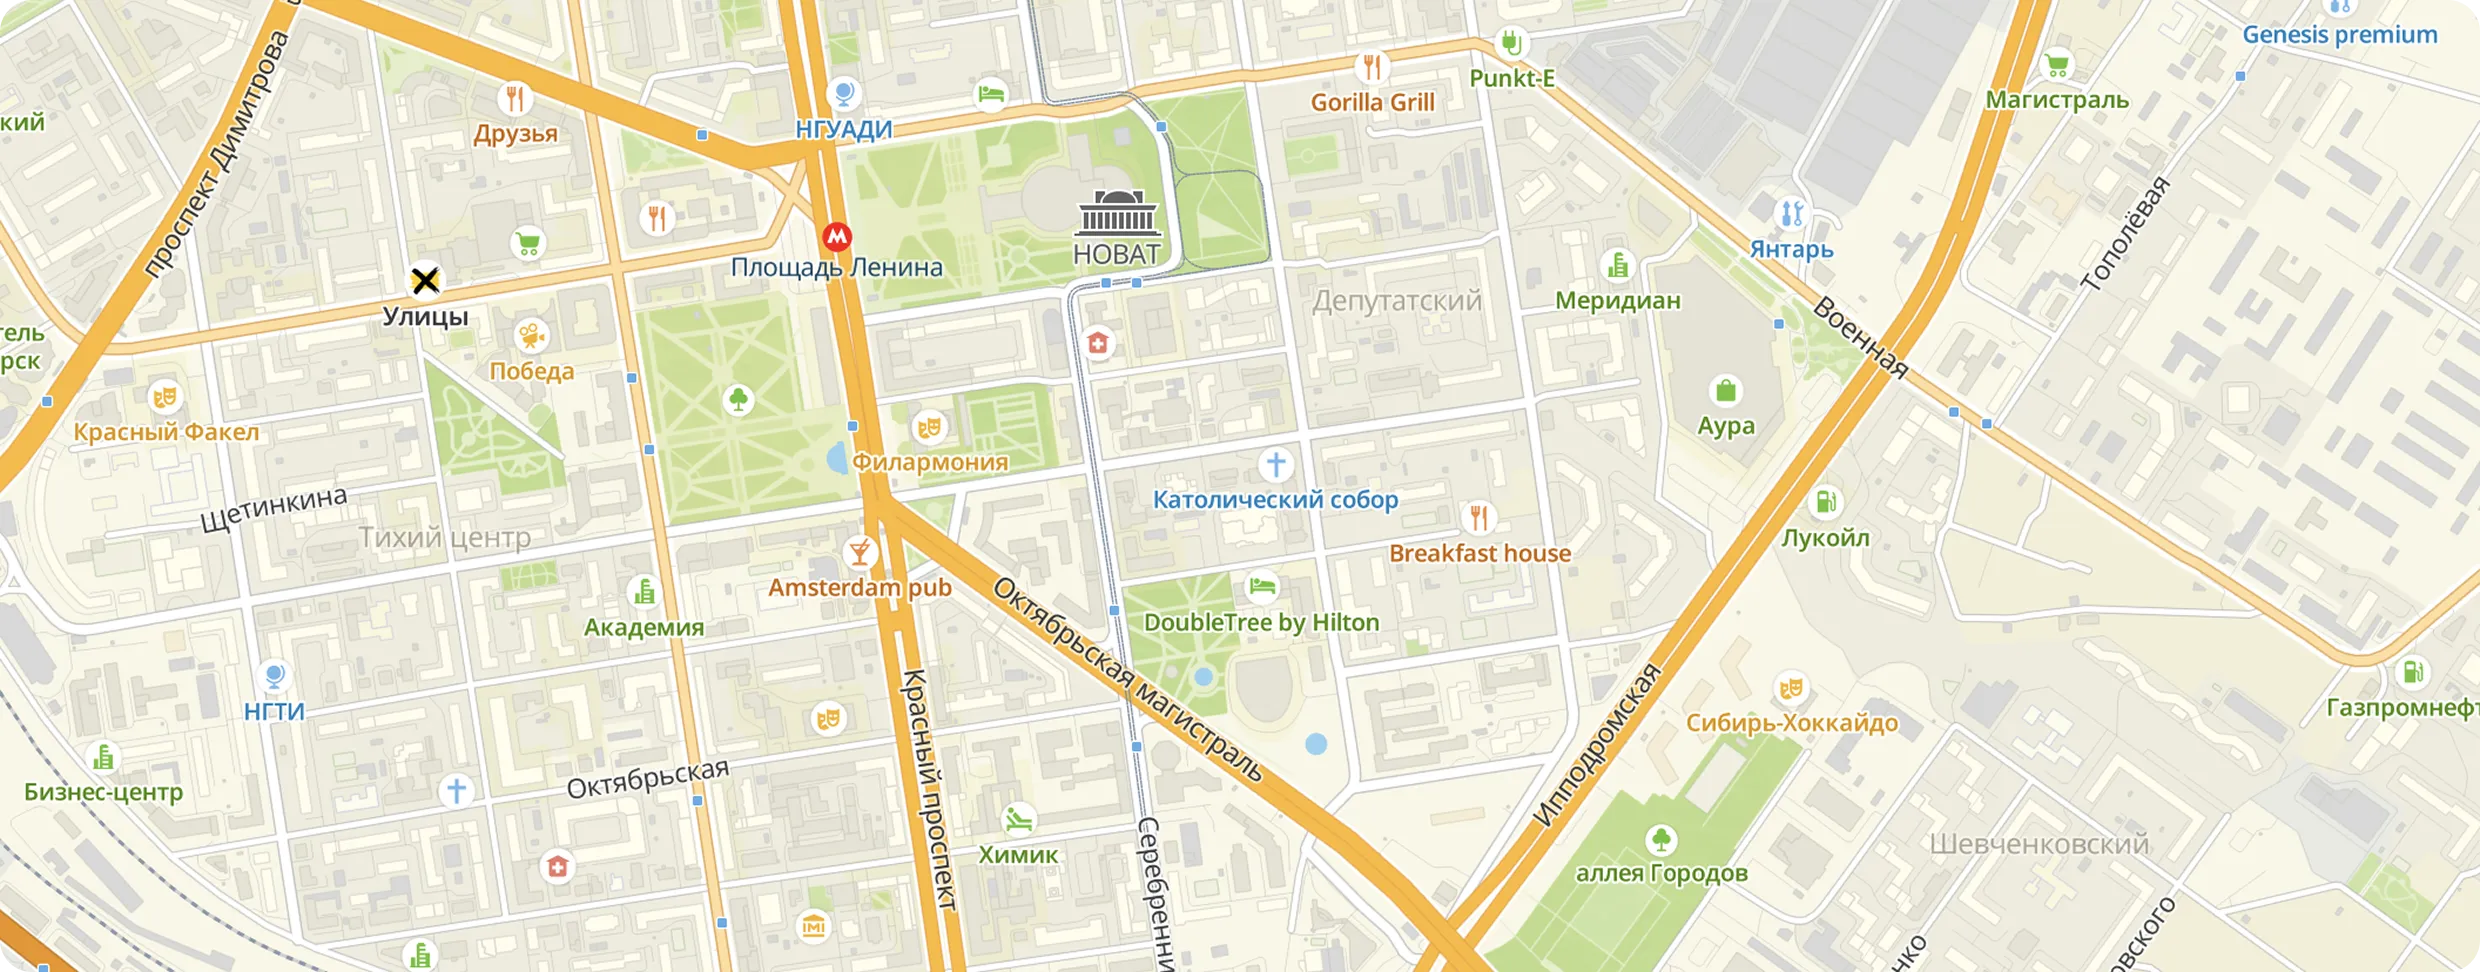
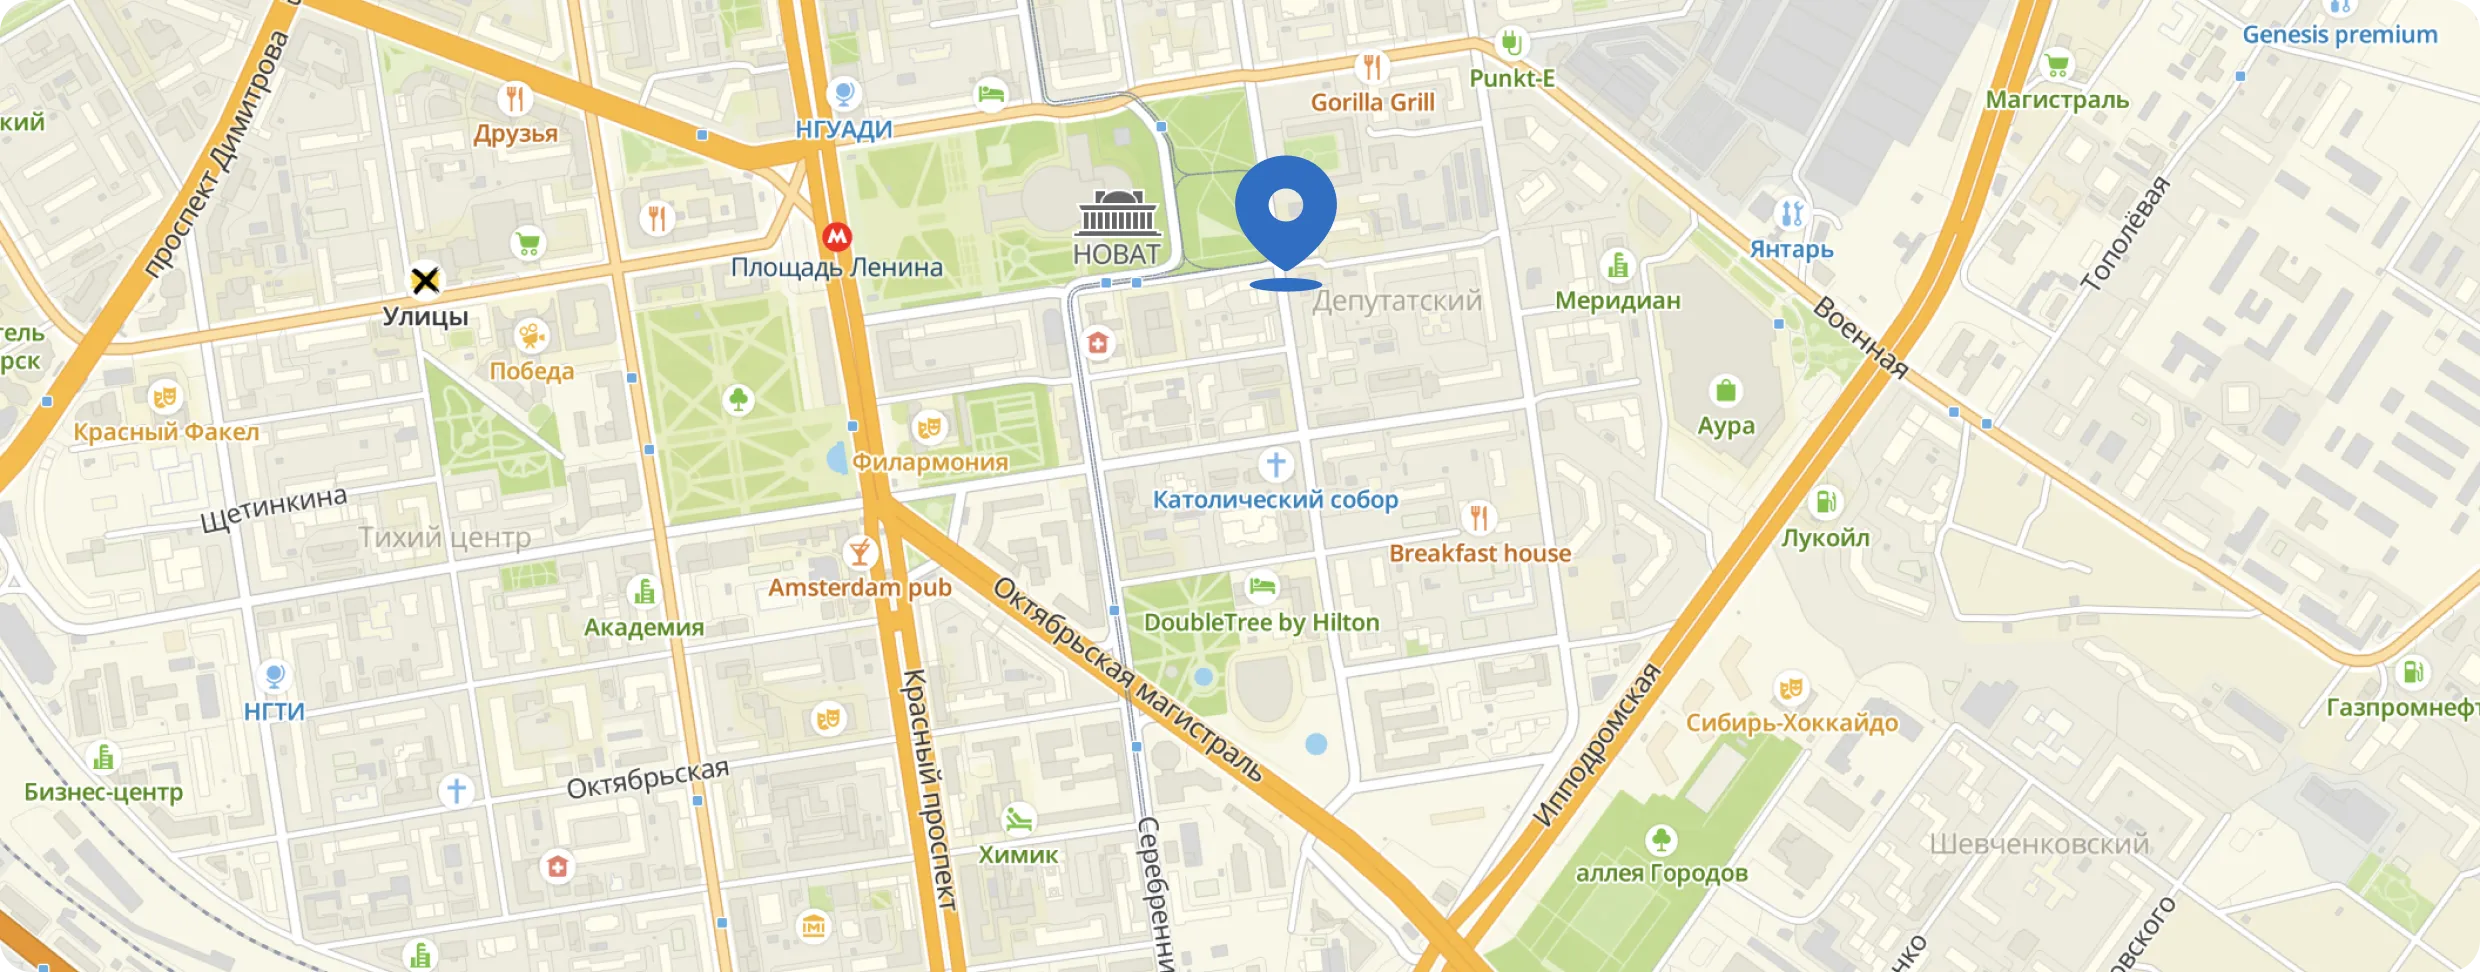
Добавляет блок contacts. Блок проходит все тесты

Changed region(s): [[0.4968, 0.1543, 0.5589, 0.3086]]

diff --git a/source/sass/blocks/contacts.scss b/source/sass/blocks/contacts.scss
@@ -1,0 +1,156 @@
+.contacts {
+    width: 100%;
+    background-color: var(--bg-accent, #000080);
+}
+
+.contacts__wrapper {
+    width: 320px;
+    margin: 0 auto;
+    padding: 76px 15px 70px;
+    box-sizing: border-box;
+    color: var(--color-second, #ffffff);
+    display: flex;
+    flex-direction: column;
+    gap: 21px;
+}
+
+.contacts__title {
+    font-size: 20px;
+    line-height: 1;
+    font-weight: 400;
+    margin: 0;
+    margin-bottom: 14px;
+}
+
+.contacts__info {
+    display: flex;
+    flex-direction: column;
+    gap: 14px;
+}
+
+.contacts__info--email {
+    margin-bottom: 10px;
+}
+
+.contacts__info-title {
+    font-size: 12px;
+    line-height: 1;
+    font-weight: 400;
+    letter-spacing: 0.12px;
+    text-transform: uppercase;
+    color: rgba(240, 239, 233, 0.8);
+    margin: 0;
+}
+
+.contacts__info-description {
+    font-family: inherit;
+    font-size: inherit;
+    font-weight: inherit;
+    font-style: normal;
+    text-decoration: none;
+    color: inherit;
+}
+
+.contacts__picture {
+    padding-top: 30px;
+    border-top: 2px solid rgba(255, 255, 255, 0.2);
+}
+
+.contacts__picture img {
+    line-height: 0;
+}
+
+@media(min-width: 768px) {
+    .contacts__wrapper {
+        width: 768px;
+        padding: 101px 45px 100px;
+        display: grid;
+        grid-template-columns: 401px max-content min-content;
+        grid-template-rows: repeat(3, min-content);
+        column-gap: 20px;
+        row-gap: 31px;
+    }
+    
+    .contacts__title {
+        font-size: 34px;
+        line-height: 1.47;
+        margin-bottom: 0;
+        grid-column: 1 / 2;
+        grid-row: 1 / 2;
+    }
+    
+    .contacts__info {
+        gap: 22px;
+    }
+    
+    .contacts__info--address {
+        grid-column: 1 / 2;
+        grid-row: 2 / 3;
+    }
+
+    .contacts__info--phone {
+        grid-column: 2 / 3;
+        grid-row: 2 / 3;
+    }
+
+    .contacts__info--email {
+        margin-bottom: 0;
+        grid-column: 3 / 4;
+        grid-row: 2 / 3;
+    }
+    
+    .contacts__info-description {
+        font-size: 16px;
+        font-weight: 1.25;
+    }
+    
+    .contacts__picture {
+        margin-top: -3px;
+        grid-column: 1 / -1;
+        grid-row: 3 / 4;
+    }
+
+}
+
+@media(min-width: 1440px) {
+    .contacts__wrapper {
+        width: 1440px;
+        padding: 120px 100px;
+        grid-template-columns: 1fr 263px max-content min-content;
+        grid-template-rows: repeat(2, min-content);
+        align-items: flex-start;
+        column-gap: 52px;
+        row-gap: 51px;
+    }
+    
+    .contacts__title {
+        font-size: 50px;
+        line-height: 1;
+    }
+    
+    .contacts__info--address {
+        grid-column: 2 / 3;
+        grid-row: 1 / 2;
+    }
+
+    .contacts__info--phone {
+        grid-column: 3 / 4;
+        grid-row: 1 / 2;
+    }
+
+    .contacts__info--email {
+        grid-column: 4 / 5;
+        grid-row: 1 / 2;
+    }
+    
+    .contacts__info-description {
+        font-weight: 1.63;
+    }
+    
+    .contacts__picture {
+        padding-top: 40px;
+        grid-column: 1 / -1;
+        grid-row: 2 / 3;
+    }
+
+}

diff --git a/source/js/modules/header.js b/source/js/modules/header.js
@@ -4,7 +4,6 @@ const navList = document.querySelector('.nav__list');
 const navLinksSelect = document.querySelectorAll('.nav__link--select');
 const body = document.querySelector('.body');
 
-// Закрытие основного меню
 const menuClose = () => {
   logo.classList.remove('header__logo-wrapper--closed');
   logo.classList.remove('header__logo-wrapper--overlay');
@@ -24,7 +23,6 @@ function handleEscapeKey(event) {
   }
 }
 
-// Проверка клика вне навигации
 function handleOutsideClick(event) {
   const isNav = event.target.closest('.nav');
   const isButton = event.target.closest('.nav__button');
@@ -62,15 +60,12 @@ const toggleSubMenu = (link) => {
   const sublist = link.nextElementSibling;
 
   if (sublist.classList.contains('nav__sublist--opened')) {
-    // Закрываем подменю
     link.classList.remove('nav__link--select-opened');
     link.classList.remove('nav__link--active');
     link.classList.add('nav__link--select');
     sublist.classList.remove('nav__sublist--opened');
     sublist.classList.add('nav__sublist--closed');
-
   } else {
-    // Открываем подменю
     link.classList.remove('nav__link--select');
     link.classList.add('nav__link--select-opened');
     link.classList.add('nav__link--active');
@@ -79,7 +74,6 @@ const toggleSubMenu = (link) => {
   }
 };
 
-// Обработчик событий (клик + тач на мобильных)
 const subMenuOpen = () => {
   const handleInteraction = (event) => {
     event.preventDefault();
@@ -95,7 +89,6 @@ const subMenuOpen = () => {
         const deltaX = Math.abs(touchEndX - link.touchStartX);
         const deltaY = Math.abs(touchEndY - link.touchStartY);
 
-        // Если движение небольшое — считаем это тапом
         if (deltaX < 5 && deltaY < 5) {
           toggleSubMenu(link);
         }
@@ -105,14 +98,12 @@ const subMenuOpen = () => {
     }
   };
 
-  // Навешиваем обработчики
   navLinksSelect.forEach((link) => {
     link.addEventListener('click', handleInteraction);
     link.addEventListener('touchstart', handleInteraction, { passive: false });
     link.addEventListener('touchend', handleInteraction, { passive: false });
   });
 
-  // Закрытие подменю при клике вне области (только для десктопов)
   document.addEventListener('click', (event) => {
     if (window.innerWidth >= 1440) {
       const isClickInside = [...navLinksSelect].some(

diff --git a/source/index.html b/source/index.html
@@ -818,7 +818,40 @@
           </div>
         </div>
       </section>
-      <div data-test="contacts">contacts</div>
+      <section class="main__contacts contacts" data-test="contacts">
+        <div class="contacts__wrapper">
+          <h2 class="contacts__title">Контакты</h2>
+          <div class="contacts__info contacts__info--address">
+            <h3 class="contacts__info-title">Центральный офис</h3>
+            <address class="contacts__info-description">г. Новосибирск, ул. Щетинкина 68, культурный центр</address>
+          </div>
+          <div class="contacts__info contacts__info--phone">
+            <h3 class="contacts__info-title">Телефон</h3>
+            <a class="contacts__info-description" href="tel:+796387687676">+7 963 876 876 76</a>
+          </div>
+          <div class="contacts__info contacts__info--email">
+            <h3 class="contacts__info-title">Email</h3>
+            <a class="contacts__info-description" href="mailto:Info@stazh.ru">Info@stazh.ru</a>
+          </div>
+          <div class="contacts__picture">
+            <picture>
+              <source media="(min-width: 1440px)" width="1240" height="486" type="image/webp"
+                srcset="img/map-desktop@1x.webp 1x, img/map-desktop@2x.webp 2x">
+              <source media="(min-width: 768px)" width="678" height="500" type="image/webp"
+                srcset="img/map-tablet@1x.webp 1x, img/map-tablet@2x.webp 2x">
+              <source width="290" height="240" type="image/webp"
+                srcset="img/map-mobile@1x.webp 1x, img/map-mobile@2x.webp 2x">
+              <source media="(min-width: 1440px)" width="1240" height="486" type="image/png"
+                srcset="img/map-desktop@1x.png 1x, img/map-desktop@2x.png 2x">
+              <source media="(min-width: 768px)" width="678" height="500" type="image/png"
+                srcset="img/map-tablet@1x.png 1x, img/map-tablet@2x.png 2x">
+              <img src="img/map-mobile@1x.png" srcset="img/map-mobile@2x.png 2x" width="290"
+                height="240"
+                alt="Карта проезда к главному офису компании">
+            </picture>
+          </div>
+        </div>
+      </section>
       <div data-test="form">form</div>
     </main>
     <div data-test="footer">footer</div>

diff --git a/source/sass/blocks/nav.scss b/source/sass/blocks/nav.scss
@@ -87,6 +87,11 @@
   }
 }
 
+// .nav__button--opened:hover {
+//   background-color: var(--bg-second, #ffffff);
+//   color: var(--bg-accent, #000080);
+// }
+
 .nav__list {
   transition: transform 0.6s ease;
 }
@@ -179,7 +184,7 @@
   display: none;
 }
 
-@media (width >= 768px) {
+@media (width >=768px) {
   .nav__button {
     min-height: 56px;
     padding: 20px 71px 20px 21px;
@@ -206,7 +211,7 @@
   }
 }
 
-@media (width >= 1440px) {
+@media (width >=1440px) {
   .nav__list--opened {
     left: 950px;
   }

diff --git a/source/sass/style.scss b/source/sass/style.scss
@@ -6,6 +6,7 @@
 @import "./blocks/body";
 @import "./blocks/body-overlay";
 @import "./blocks/card-button";
+@import "./blocks/contacts";
 @import "./blocks/faq";
 @import "./blocks/grant";
 @import "./blocks/header";
